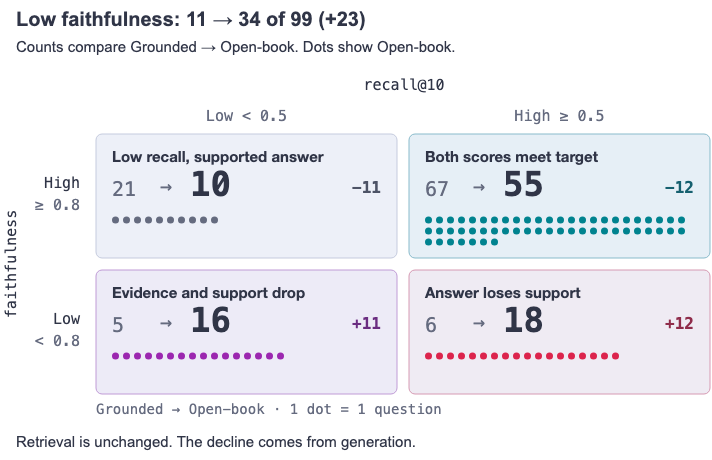
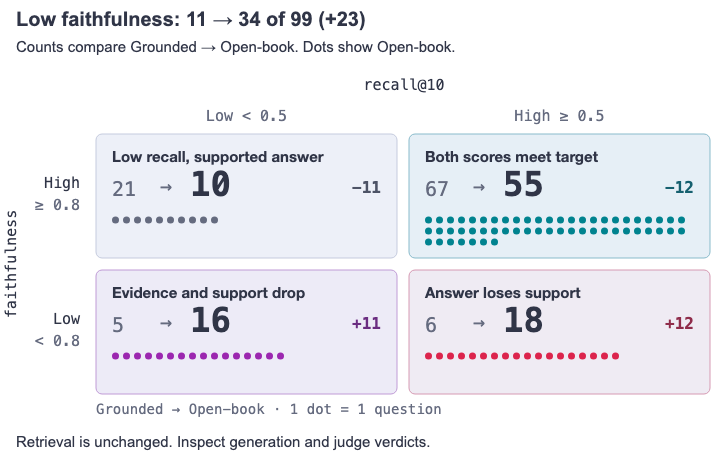
fix: change the introduction, replace one of the visuals with table explanation of the comparison closer tied to the results

Changed region(s): [[0.2472, 0.9435, 0.618, 0.9739]]

diff --git a/qdrant-landing/content/documentation/headless/pipeline-output-quality/score-map/index.js b/qdrant-landing/content/documentation/headless/pipeline-output-quality/score-map/index.js
@@ -1,10 +1,10 @@
 // A static map, not a toggle: all four comparisons are relevant at once, so
-// every score shows its connecting line and the two artifacts it reads
+// every score shows its connecting line and the two artifacts it compares
 // together. Mounted as an island (not a plain image) only because that is
 // this host's one way to inherit live theme tokens and reflow at narrow
 // widths; there is no interactive state to select.
 const NS = 'http://www.w3.org/2000/svg';
-const DESCRIPTION = 'Each score compares two artifacts. Answer relevancy compares the Answer with the Question. Faithfulness compares the Answer with the Top 10 passages. Recall at 10 compares the Top 10 passages with the Golden set relevance labels. Context precision compares the Top 10 passages with the Golden set reference answer.';
+const DESCRIPTION = 'Each line shows a score\'s main comparison. Answer relevancy compares the Answer with the Question. Faithfulness compares the Answer with the Top 10 passages. Recall at 10 compares the Top 10 passages with the Golden set relevance labels. Context precision compares the Top 10 passages with the Golden set reference answer. The judges also use the Question.';
 
 function element(tag, attributes = {}) {
   const result = document.createElementNS(NS, tag);

diff --git a/qdrant-landing/content/documentation/search-evaluation/pipeline-output-quality.md b/qdrant-landing/content/documentation/search-evaluation/pipeline-output-quality.md
@@ -13,22 +13,21 @@ aliases:
 
 # Evaluating Pipeline Output Quality
 
-Imagine you are the doctor of a well-known patient: a RAG pipeline. The worst thing you can do is start the treatment right away. A treatment (for software, a solution) cannot be created without a diagnosis, and RAG systems have been around long enough that standardized approaches exist for it. This guide shows how to separate retrieval failures from generation failures, identify which component to investigate, and test whether a proposed fix actually works.
+You are building an assistant for a historical archive. You ask who was the first president of the United States. It correctly answers "George Washington," but when you inspect the retrieved passages, none contains that information.
 
-To find which component of the system is not working as intended (maybe every component), we need:
+A correct answer can hide a broken pipeline. Did retrieval miss the relevant evidence? Did the assistant fill the gap from its own knowledge? Both can happen, and checking the final answer alone will not reveal either problem.
 
-1. Golden set: A collection of test questions with known correct answers, which is our reference for healthy behavior.
+This guide shows how to evaluate retrieval and generation separately, identify which component needs attention, and test whether a proposed fix improves the results.
+
+To find which component of the system is not working as intended (maybe every component), we use three things:
+
+1. Golden set: Test questions with labeled relevant passages and, where needed, reference answers. This is our reference for healthy behavior.
 2. Pipeline results: What our RAG system actually retrieved and answered for those questions.
 3. LLM-as-a-Judge: An evaluator that scores the results and helps identify where things went wrong.
 
-> **Note:** Most of what follows needs a golden set: questions, the IDs of the passages that answer each one, and reference answers for the metrics that need them (`faithfulness` and `answer_relevancy` need neither, so you can start scoring answers today). Quality matters as much as coverage: relevance labels miss passages, and a reference answer is only as good as whoever wrote it. See [Measuring Retrieval Relevance](/documentation/search-evaluation/retrieval-relevance/) for how to construct and validate one.
+> **Note:** Prepare a golden set for the full diagnosis: record the IDs of relevant passages for each question, and add reference answers for the metrics that need them. Quality matters as much as coverage: relevance labels can miss passages, and a reference answer is only as good as whoever wrote it. See [Measuring Retrieval Relevance](/documentation/search-evaluation/retrieval-relevance/) for how to construct and validate the labels. Without a golden set, you can still check answer support and relevancy, as the metric choices explain.
 
-Keeping with the medical analogy, the numbers come from a public biomedical dataset, described in [How We Measured](#how-we-measured).
-
-Two related pages cover the other retrieval-evaluation concerns:
-
-- [Measuring ANN Recall](/documentation/tutorials-search-engineering/ann-recall/): does the approximate nearest neighbor index return the same results as exact search?
-- [Measuring Retrieval Relevance](/documentation/search-evaluation/retrieval-relevance/): do the top-k results match query intent?
+The worked example uses a public biomedical dataset, described in [How We Measured](#how-we-measured).
 
 ## Choosing Which Metrics Are Useful
 
@@ -39,15 +38,15 @@ Four scores cover the two halves of the pipeline. `recall@10` and `context_preci
 {{< island
     path="content/documentation/headless/pipeline-output-quality/score-map"
     ratio="712 / 580"
-    title="Each score compares only the two artifacts it reads."
+    title="Each line shows a score's main comparison. The judges also use the question."
 >}}
 ![The RAG pipeline runs from the question through Qdrant retrieval to the top 10 passages, then through the generator to the answer. recall@10 compares the passages with the relevance labels, context_precision compares them with the reference answer, faithfulness compares the answer with the passages, and answer_relevancy compares the answer with the question.](/docs/pipeline-output-quality-score-map.png)
 {{< /island >}}
 
 <details>
-<summary>Metric definitions</summary>
+<summary>Metric Definitions</summary>
 
-- `recall@10`: The share of labeled passages found in the top 10 results. No LLM judge needed. See [Measuring Retrieval Relevance](/documentation/search-evaluation/retrieval-relevance/) for the calculation.
+- `recall@10`: The share of labeled passages found in the top 10 results. No LLM judge needed. See [Measuring Retrieval Relevance](/documentation/search-evaluation/retrieval-relevance/) for the calculation. [ANN recall](/documentation/tutorials-search-engineering/ann-recall/) is a separate check of whether the approximate index matches exact search.
 - `context_precision`: An LLM checks which passages support the reference answer and rewards ranking them first. Needs reference answers, but no passage labels.
 - `faithfulness`: The share of the answer's claims supported by the retrieved passages. Even correct claims lower the score if the passages do not support them.
 - `answer_relevancy`: Does the answer address the question? Off-topic content, evasions, and refusals lower the score.
@@ -56,7 +55,7 @@ Four scores cover the two halves of the pipeline. `recall@10` and `context_preci
 
 Supported and relevant does not necessarily mean correct. An answer can faithfully repeat an error in the passages. To evaluate correctness against a reference answer, use a metric such as `FactualCorrectness`.
 
-What you can measure depends on what your golden set contains. `faithfulness` and `answer_relevancy` need neither labels nor reference answers, so you can always score the answer. The rest decides which other scores you get:
+What you can measure depends on the reference data you have. Given the question, retrieved passages, and generated answer, `faithfulness` and `answer_relevancy` need neither labels nor reference answers. The available reference data determines which other scores you can add:
 
 - **Labels and reference answers:** Adds `recall@10`, `context_precision`, and correctness such as `FactualCorrectness`.
 - **Labels only:** Adds `recall@10`.
@@ -67,7 +66,7 @@ What you can measure depends on what your golden set contains. `faithfulness` an
 
 Reading the scores is as important as choosing the right ones. Collapsing multiple metrics into one end-to-end score might tell you that the pipeline got worse, but not which component caused it. Without separate signals, the next iteration becomes guesswork.
 
-This is why we start with recall@10 and faithfulness: did the evidence arrive, and did the answer stick to it? Select a symptom to see where to inspect. Here, high and low are relative to the target you set for each metric.
+With passage labels, we start with `recall@10` and `faithfulness`: did the evidence arrive, and did the answer stick to it? Without labels, you can inspect answer scores, but you need to label the relevant passages before using this diagnostic map. Select a symptom to see where to inspect. Here, high and low are relative to the target you set for each metric.
 
 {{< island
     path="content/documentation/headless/pipeline-output-quality/diagnosis"
@@ -79,7 +78,7 @@ This is why we start with recall@10 and faithfulness: did the evidence arrive, a
 
 Once both scores meet their targets (both are high), the map moves on to `context_precision`, `answer_relevancy`, and correctness. `context_precision` refines the retrieval check by asking whether supporting passages rank first, `answer_relevancy` checks whether the final answer addresses the question, and correctness checks it against a reference answer. Treat them as a final quality check, and go back if the results are not good enough.
 
-This analysis can fail when your RAG system is more complicated than a two-component architecture. Some tips:
+Even in this two-component pipeline, scores are clues, not a diagnosis. Some tips:
 
 1. Do not trust averages alone. They hide individual failures.
 2. Do not treat metrics as definitive diagnoses. Two low scores do not necessarily mean the answer is bad.
@@ -87,6 +86,8 @@ This analysis can fail when your RAG system is more complicated than a two-compo
 ## Worked Example: Diagnostics in Reverse
 
 To find which component failed, hold one fixed and change the other. Here we run the diagnosis in reverse: we plant a cause, then check whether the scores lead back to it. Retrieval stays fixed on 100 questions, and only the generator prompt changes.
+
+Follow along in the [companion notebook](https://github.com/qdrant/examples/blob/master/rag-pipeline-evaluation/rag_pipeline_evaluation.ipynb) or [open it in Colab](https://githubtocolab.com/qdrant/examples/blob/master/rag-pipeline-evaluation/rag_pipeline_evaluation.ipynb).
 
 The grounded prompt requires answers to be supported by the retrieved passages and to say when they are not. The open-book prompt lets the LLM use its own knowledge as well. Read the results as if you did not know which one changed.
 
@@ -97,64 +98,64 @@ The grounded prompt requires answers to be supported by the retrieved passages a
 | `faithfulness` | 0.940 | 0.830 |
 | `answer_relevancy` | 0.698 | 0.759 |
 
-*Higher is better on all four. The open-book `answer_relevancy` covers 98 questions after one more judge timeout.*
+*These are mean scores. Higher means more of the property being measured; an appropriate refusal can still lower `answer_relevancy`*
 
-This worked example calls recall@10 high at 0.5 or above and faithfulness high at 0.8 or above, the targets the figures below use; set your own based on your own data.
+For the per-question comparison, this worked example calls `recall@10` high at 0.5 or greater and `faithfulness` high at 0.8 or greater. These are illustrative targets; set your own based on your own data.
 
-The retrieval scores are identical because the passages are identical; `context_precision` was not rescored, only carried over, since nothing about retrieval changed. Whatever changed happened after retrieval. `faithfulness` dropped from 0.940 to 0.830, while `answer_relevancy` rose slightly. This is a single run, so trust the large `faithfulness` shift over the small `answer_relevancy` gain. For calibrated conclusions, run this 3 or more times and compute confidence intervals to see what is statistically significant.
+The retrieval scores are identical because the passages are identical; `context_precision` was not rescored, only carried over, since nothing about retrieval changed. Whatever changed happened after retrieval. `faithfulness` dropped, while `answer_relevancy` rose. That is the observed trade-off in this run. Before treating either change as reliable, rerun both configurations on the same questions and measure how much the generator and judge vary.
 
-The average tells us `faithfulness` declined, but not how many questions were affected or where the failures landed. Following our own advice, we group the same 99 questions by recall and faithfulness to find where the new problems appeared:
+The mean recall and faithfulness scores still clear their illustrative targets in both runs. Yet low-faithfulness answers increased from 11 to 34 of the 99 scored answers per prompt. **Averages can hide failures on individual questions.** To understand what went wrong, read those answers alongside their retrieved passages and the judge verdicts.
 
-{{< island
-    path="content/documentation/headless/pipeline-output-quality/prompt-quadrants"
-    ratio="712 / 480"
-    title="With retrieval fixed, low-faithfulness answers rise from 11 to 34 of 99 (+23). Counts compare Grounded → Open-book; dots show the selected prompt."
->}}
-![A 2x2 grid of recall@10 against faithfulness, counting 99 questions per prompt. Grounded prompt: 67 High recall and High faithfulness, 6 High recall and Low faithfulness, 21 Low recall and High faithfulness, and 5 Low recall and Low faithfulness. Open-book prompt: 55, 18, 10, and 16. Low faithfulness grows from 11 to 34 of 99 (+23), including High recall and Low faithfulness from 6 to 18 (+12).](/docs/pipeline-output-quality-prompt-quadrants.png)
-{{< /island >}}
+These two illustrative patterns show what to look for when relaxing the prompt. They are possible changes in individual answers, not measured transitions from this run:
 
-Among high-recall questions, where retrieval found the right passages, low-faithfulness answers tripled from 6 to 18: these are the questions worth inspecting first, comparing their generated claims against the retrieved passages and the generator prompt. The low-recall, low-faithfulness cell grew too, from 5 to 16. A reader following the map alone would send those 11 questions to retrieval; only the controlled setup tells us the cause was the same prompt change. **The problem traces to generation, not retrieval:** the open-book prompt, as expected, let the LLM draw on its own knowledge alongside the provided evidence.
+| Case | What changes after relaxing the prompt | What it teaches |
+| --- | --- | --- |
+| High recall, high faithfulness → high recall, low faithfulness | The retrieved evidence stays the same, but the answer introduces unsupported claims. | Finding relevant evidence does not guarantee the generator will use it faithfully. |
+| Low recall, high faithfulness → low recall, low faithfulness | A limited, supported answer becomes more expansive, filling gaps with unsupported information. | Generation can make an existing retrieval weakness harder to notice. Retrieval itself did not change. |
 
-Since retrieval was identical in both runs, it cannot explain the difference. But it can still improve: `recall@10` of 0.668 means some relevant evidence remains missing.
+Either pattern can produce an answer that addresses the question more directly and scores higher on `answer_relevancy`. That improvement does not compensate for unsupported claims. This is why we check answer relevancy after retrieval and faithfulness: a more responsive answer can still be a worse pipeline output.
 
-In your setup, nobody plants the cause: you start from the symptom, form a hypothesis, test the fix, and measure again.
-
-## Running in CI
-
-Once the baseline works as intended, lock it in: run the evaluation in CI against a fixed golden set, and fail the build when a metric's mean drops below your baseline, or when the count of below-target questions rises, since an unchanged mean can still hide a growing cluster of failures. Set that margin above the swing you see from rerunning an unchanged configuration, so ordinary run-to-run variability does not fail the build on its own, only a real regression does. Keep the generator prompt and model versions in version control, so a change shows up as a diff next to the score it caused. Treat retrieval and generation independently, and update the thresholds when requirements change, not because a merge you need fails.
-
-## Before You Trust the Scores
-
-- **Judge bias.** Judges can skew toward longer answers, certain positions, or whichever model you picked as the judge (see [References](#references)). Compare a sample against human judgments, and recalibrate the rubric if they disagree.
-- **Self-judging contamination.** A judge tends to score its own model family's outputs higher. Use a judge from a different model family than the generator, ideally a different vendor, and record both versions in every run.
-- **Failed calls.** A dropped judge or generator call is a pipeline failure, not missing data. Count and report failures instead of silently excluding them from the average.
-- **Refusals.** A correct refusal can still score low on `answer_relevancy`. Check whether a low score is an evasion or an appropriate refusal before treating it as a failure.
-- **Evaluation cost.** With 10 retrieved passages, Ragas makes around 15 judge calls per question. Start with 50–100 questions and a cheaper judge, then run the full golden set before release. For an initial pass without an LLM judge, see [Predicting Weak Retrieval Without an LLM](/articles/predicting-weak-retrieval/).
-- **Score stability.** Both the generator and the judge sample their output, so a rerun shifts the numbers. Rerun identical configurations to see how much a score moves before treating a small difference as real.
+Retrieval still misses some labeled evidence. Check what is missing, but remember that questions with more than 10 labeled passages cannot reach perfect recall in 10 results.
 
 ## What to Check Next
 
-However you got there, each symptom points to a specific place to inspect:
+In your pipeline, start from the symptom, form a hypothesis, and test it. Inspect individual answers alongside their passages and judge verdicts, using the scores to choose where to look:
 
 | Observation | What to inspect next |
 | --- | --- |
 | Missing relevant evidence (low `recall@10`) | Retrieved passages, relevance labels, filters, retrieval configuration |
-| Supporting passages rank too low (low `context_precision`) | Ranking, hybrid search fusion, reranking |
+| Supporting passages are absent or rank too low (low `context_precision`) | Passage relevance, ranking, hybrid search fusion, reranking |
 | Unsupported claims (low `faithfulness`) | Generator prompt, retrieved passages, individual claims, judge verdicts |
 | Answer does not address the question (low `answer_relevancy`) | Prompt instructions, evasions, irrelevant content, appropriate refusals |
 | Suspicious or unstable scores | Judge behavior, reference-data quality, failed calls, run-to-run variability |
 
-## Wrapping Up
+Before acting, check that the failure is real. An appropriate refusal can score low on `answer_relevancy`. Judges can favor longer answers, certain positions, or their own outputs (see [References](#references)). Use a judge from a different model family than the generator, compare a sample of verdicts with human judgments, and recalibrate the rubric if they disagree.
 
-Evaluation helps identify failing components, but a diagnosis is only a hypothesis until you have tested the fix: change one component at a time, run the same evaluation again, and check whether the suspected failures actually improve.
+### Test the Fix
 
-Try it with your own data using the [companion notebook](https://github.com/qdrant/examples/blob/master/rag-pipeline-evaluation/rag_pipeline_evaluation.ipynb) or [open it in Colab](https://githubtocolab.com/qdrant/examples/blob/master/rag-pipeline-evaluation/rag_pipeline_evaluation.ipynb).
+Change one component at a time and rerun the same questions. Check whether the individual failures improve as well as the averages. Keep judge settings fixed during the comparison, and rerun an unchanged configuration to estimate normal variation before treating a small score difference as an improvement. Count failed generator and judge calls separately instead of silently excluding them from the averages.
+
+Start with 50–100 questions and a cheaper judge during iteration, then run the full golden set before release. With three judged metrics and 10 retrieved passages, this Ragas setup makes around 15 judge calls per question before retries. For an initial pass without an LLM judge, see [Predicting Weak Retrieval Without an LLM](/articles/predicting-weak-retrieval/).
+
+### Keep Improvements in CI
+
+Once the baseline meets your requirements, run the evaluation in CI against a fixed golden set. Fail the build when a metric's mean drops or its count of below-target questions rises beyond an allowed margin. Set those margins from repeated baseline runs and report failed calls separately. Keep retrieval and generation checks separate.
+
+Version the pipeline configuration, generator prompt, generator and judge models, and judge settings alongside the scores. Update thresholds when requirements change, not because a merge you need fails.
 
 ## How We Measured
 
-The run was recorded on October 8, 2026, with 100 questions from <a href="https://huggingface.co/datasets/rag-datasets/rag-mini-bioasq" target="_blank">rag-mini-bioasq</a>, a public subset of the BioASQ Task 11b biomedical question-answering data, repackaged for RAG with a passage corpus, relevance labels, and reference answers. About 30% of its passages contain missing text but are still labeled relevant; we dropped those passages and the labels pointing at them before scoring, since an uncleaned corpus measures data errors instead of retrieval quality (<a href="https://huggingface.co/datasets/enelpol/rag-mini-bioasq" target="_blank">enelpol/rag-mini-bioasq</a> fills the gaps instead, if you would rather keep every passage). Thirteen of the 100 questions have more than 10 labeled passages, so they cannot reach a `recall@10` of 1.0 even with perfect retrieval. Retrieval used `BAAI/bge-small-en-v1.5` through Qdrant's FastEmbed integration. The generator was `anthropic/claude-haiku-5.5`, and the judge was `openai/gpt-5.4-nano` with `openai/text-embedding-3-small` embeddings, all reached through <a href="https://openrouter.ai/" target="_blank">OpenRouter</a>, on Ragas 0.4.3. In each run, one empty generator answer and one judge timeout leave the three judged metrics with 99 scored questions. We did not measure how much an identical rerun would move these numbers.
+The run was recorded on October 8, 2026, with 100 questions from <a href="https://huggingface.co/datasets/rag-datasets/rag-mini-bioasq" target="_blank">rag-mini-bioasq</a>, a public subset of the BioASQ Task 11b biomedical question-answering data, repackaged for RAG with a passage corpus, relevance labels, and reference answers. About 30% of its passages contain missing text but are still labeled relevant; we dropped those passages and the labels pointing at them before scoring, since an uncleaned corpus mixes data errors with retrieval quality (<a href="https://huggingface.co/datasets/enelpol/rag-mini-bioasq" target="_blank">enelpol/rag-mini-bioasq</a> fills the gaps instead, if you would rather keep every passage). Thirteen of the 100 questions have more than 10 labeled passages, so they cannot reach a `recall@10` of 1.0 even with perfect retrieval.
+
+Retrieval used `BAAI/bge-small-en-v1.5` locally through Qdrant's FastEmbed integration. The generator was `anthropic/claude-haiku-5.5`, and the judge was `openai/gpt-5.4-nano` with `openai/text-embedding-3-small` embeddings. The generator and judge models were reached through <a href="https://openrouter.ai/" target="_blank">OpenRouter</a>, using Ragas 0.4.3 for scoring.
+
+Each prompt run returned one empty answer, leaving 99 `faithfulness` scores. The grounded run also had one `context_precision` timeout; its 99 scores were carried over to the open-book comparison. `answer_relevancy` covered 99 grounded answers and 98 open-book answers after an additional timeout. The reported means exclude those unscored results; `recall@10` covers all 100 questions.
 
 ## References
 
-- LLM judges can favor [longer answers](https://arxiv.org/abs/2306.05685) or prefer [certain answer positions](https://aclanthology.org/2025.ijcnlp-long.18/). Judge design choices, especially which model you pick, can also [shift scoring leniency](https://arxiv.org/abs/2610.05094) by tens of percentage points, and a related compression-toward-the-middle effect has been documented when LLMs score ordinal scales, [in a clinical setting](https://arxiv.org/abs/2605.16386). Calibrating the rubric against human feedback can be an [iterative process](https://pmc.ncbi.nlm.nih.gov/articles/PMC13237853/) as new disagreements emerge.
-- Judges score their own outputs higher than other outputs of equal quality, and that preference grows with how well the model recognizes its own text (<a href="https://arxiv.org/abs/2404.13076" target="_blank">Panickssery et al., 2024</a>).
+- [Verbosity and other judge biases](https://arxiv.org/abs/2306.05685).
+- [Position bias in pairwise judging](https://aclanthology.org/2025.ijcnlp-long.18/).
+- [Effects of judge prompts, rating scales, and models](https://arxiv.org/abs/2610.05094).
+- [Central-tendency bias in clinical ordinal scoring](https://arxiv.org/abs/2605.16386).
+- [Judge reliability and calibration: a survey](https://pmc.ncbi.nlm.nih.gov/articles/PMC13237853/).
+- [Self-recognition and self-preference](https://arxiv.org/abs/2404.13076).
